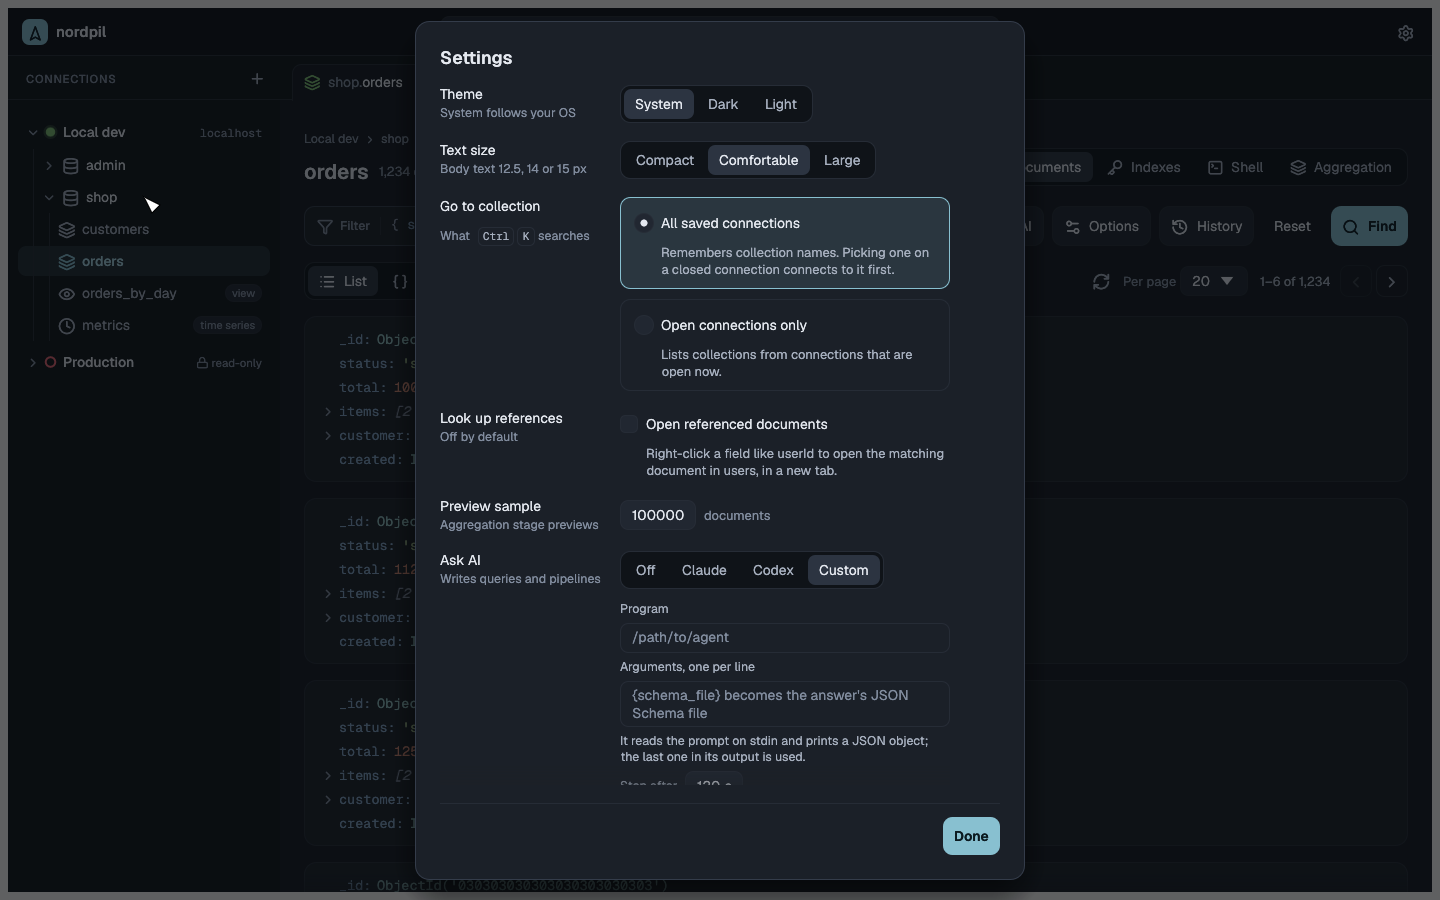
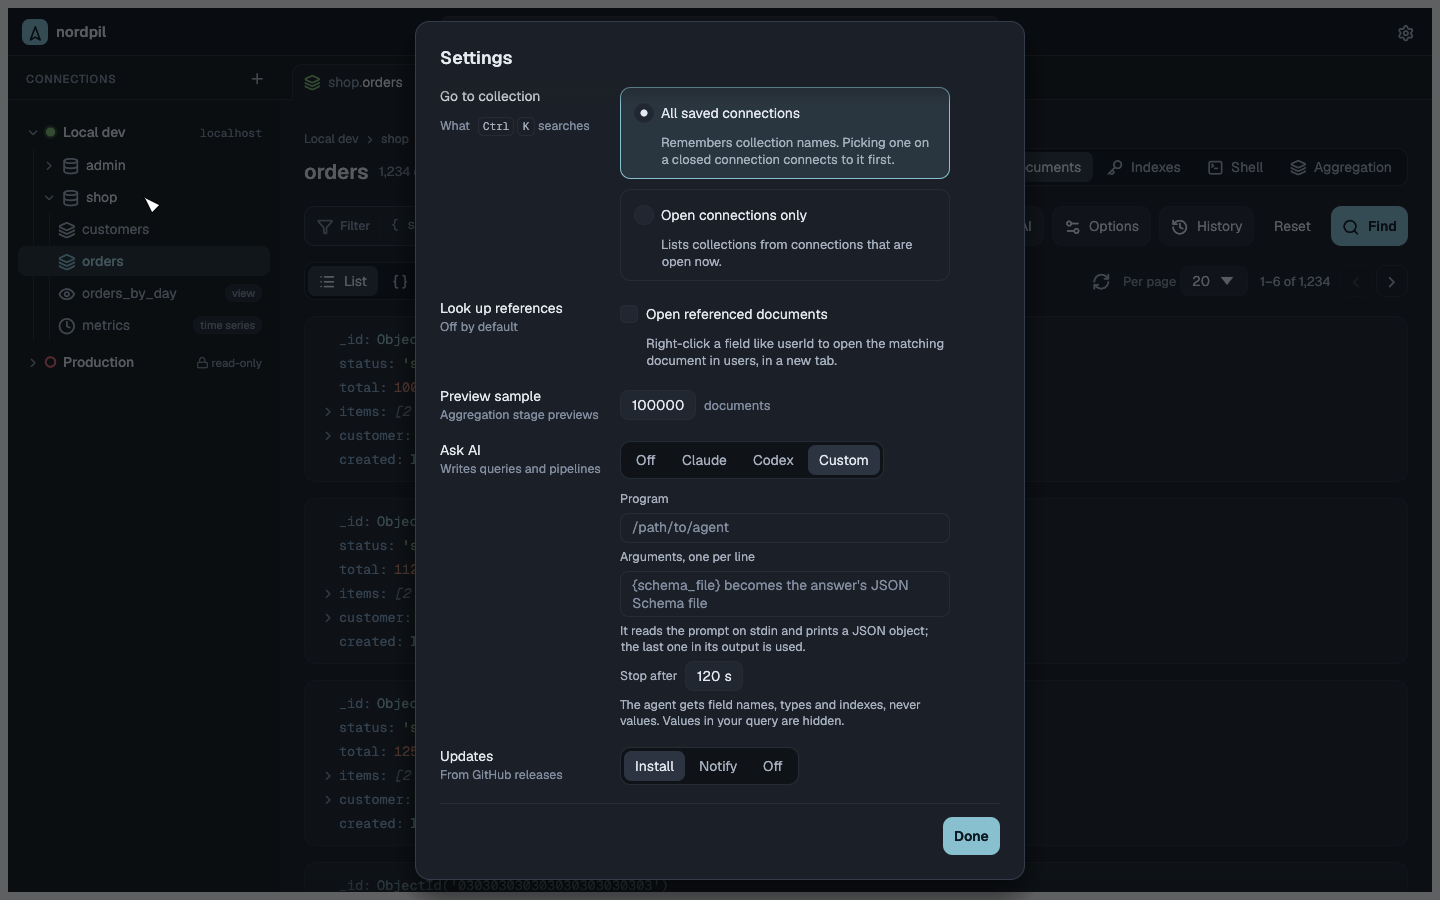
docs: themes in the README and screenshots
The README explains the theme file format and lists every color; the
gallery shows the theme editor and the theme settings.

diff --git a/crates/app/src/app.rs b/crates/app/src/app.rs
@@ -4783,6 +4783,11 @@ mod screenshots {
         save(&mut harness, "settings");
         harness.state_mut().settings.ai.agent = AiAgent::Custom;
         harness.run();
+        // The theme rows push the AI options down; scroll to them.
+        harness
+            .get_by_role_and_label(Role::MultilineTextInput, "Arguments")
+            .scroll_to_me();
+        harness.run();
         save(&mut harness, "settings-ai");
         harness.state_mut().settings.ai.agent = AiAgent::Off;
         harness.key_press(egui::Key::Escape);

diff --git a/README.md b/README.md
@@ -57,8 +57,11 @@ when idle, against roughly 1 GB for Compass.
   The answer opens in an editable preview with a one-line explanation; refine it, see
   exactly what was sent, then apply it. Off until you pick an agent in Settings.
 - **Import and export**: JSON, JSON lines and CSV, streamed with progress and cancel.
-- **Settings**: dark, light or system theme, three text sizes, and whether Ctrl+K searches
-  all saved connections or only open ones.
+- **Themes**: dark, light or system mode, with a theme picked for each. Make your own
+  in the theme editor, a panel beside the app where every color change shows at once,
+  or by hand in a TOML file; see [Themes](#themes).
+- **Settings**: three text sizes, and whether Ctrl+K searches all saved connections or
+  only open ones.
 - **Keyboard**: F1 lists every shortcut. Ctrl+W closes a tab and Ctrl+Shift+T brings it
   back, Ctrl+Tab and Ctrl+1–9 switch tabs, Alt+1/2/3/4 switch between Documents, Indexes,
   Shell and Aggregation, Ctrl+R reruns the query or pipeline, Ctrl+I asks AI and Ctrl+, opens the settings. On macOS the keys use
@@ -77,6 +80,8 @@ when idle, against roughly 1 GB for Compass.
 | ![Aggregation](docs/screenshots/aggregate.png) | ![Keyboard shortcuts](docs/screenshots/shortcuts.png) |
 | **Ask AI (Ctrl+I)** | **Choosing the agent** |
 | ![Ask AI](docs/screenshots/ask-ai.png) | ![Ask AI settings](docs/screenshots/settings-ai.png) |
+| **Theme editor** | **Choosing themes** |
+| ![Theme editor](docs/screenshots/theme-editor.png) | ![Theme settings](docs/screenshots/settings.png) |
 
 ## Install
 
@@ -114,9 +119,49 @@ nordpil
 On Linux, saving passwords needs a Secret Service keyring (GNOME Keyring, KeePassXC, …),
 and the file picker uses the XDG desktop portal.
 
-Saved connections, settings, query history and recent collections live in the
+Saved connections, settings, themes, query history and recent collections live in the
 platform config folder (`~/.config/nordpil/` on Linux); logs in the platform state
 folder (`~/.local/state/nordpil/logs/` on Linux).
+
+## Themes
+
+nordpil ships Nordic frost, in dark and light. Settings pick the mode (system, dark or
+light) and the theme for each. A theme of your own is a TOML file in the `themes`
+folder of the config folder (Settings → Custom themes → Open folder); its file name
+without `.toml` is its id:
+
+```toml
+# themes/fjord.toml
+name = "Fjord"
+base = "nordic-dark"  # nordic-dark, nordic-light, or another theme's id
+
+[colors]
+main = "#121d27"
+accent = "#e0a35b"
+scrim = "#06090da3"   # #rrggbb, or #rrggbbaa with alpha
+```
+
+A theme changes only the colors it lists; the rest come from its base, and a base can
+build on another theme. Whether a theme is dark or light comes from the built-in at the
+bottom. `accent_soft`, `focus` and `danger_soft` are their parent (`accent`, `danger`) at
+the base's opacity, so they follow it when the theme sets only the parent.
+
+After editing a file by hand, press Reload in Settings. A line with an unknown color name
+or a bad color is skipped, and Settings says which; a file that isn't valid TOML, or
+whose base is missing or builds on itself, can't be used and the built-in shows instead.
+
+The theme editor (Edit next to a theme, or New theme) saves the same files. Saving
+rewrites the file, so comments and skipped lines are dropped. A built-in can't change:
+editing one starts a new theme based on it.
+
+| Group | Colors |
+| --- | --- |
+| Surfaces | `app`, `side`, `main`, `surface`, `raised`, `hover`, `hover_tint`, `track`, `active`, `line`, `line_strong`, `scrim`, `shadow` |
+| Text | `text`, `muted`, `subtle` |
+| Accent | `accent`, `accent_ink`, `accent_soft`, `accent_text`, `focus` |
+| Status | `danger`, `danger_soft`, `warn` |
+| Syntax | `syntax_key`, `syntax_string`, `syntax_number`, `syntax_constructor`, `syntax_operator` |
+| Connections | `conn_red`, `conn_orange`, `conn_yellow`, `conn_green`, `conn_teal`, `conn_blue`, `conn_purple`, `conn_pink` |
 
 ## Development
 
